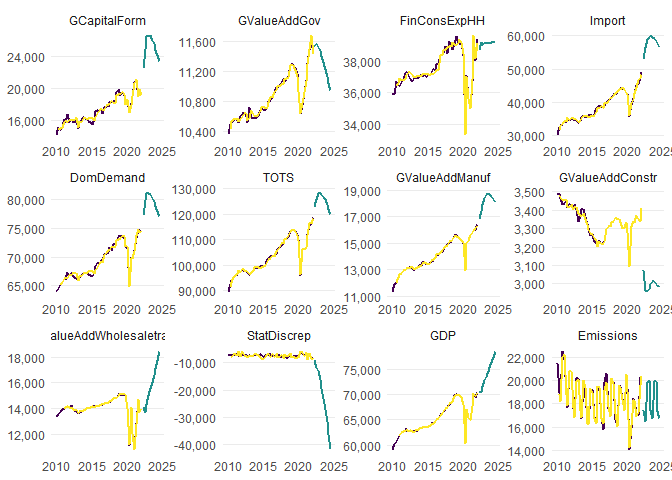
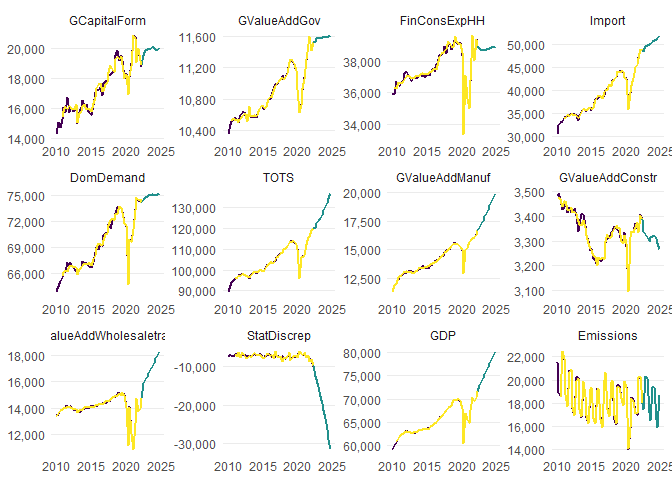
update data and readme

diff --git a/README.md b/README.md
@@ -30,14 +30,14 @@ First we load the package:
 
 ``` r
 library(aggregate.model)
-#> Loading required package: gets
-#> Loading required package: zoo
+#> Lade nötiges Paket: gets
+#> Lade nötiges Paket: zoo
 #> 
-#> Attaching package: 'zoo'
-#> The following objects are masked from 'package:base':
+#> Attache Paket: 'zoo'
+#> Die folgenden Objekte sind maskiert von 'package:base':
 #> 
 #>     as.Date, as.Date.numeric
-#> Loading required package: parallel
+#> Lade nötiges Paket: parallel
 ```
 
 ### Specify the model
@@ -940,13 +940,21 @@ model_result <- run_model(
   specification = spec,
   filter_list = filter_list,
   save_to_disk = "data/use/InputData.xlsx",
-  download = TRUE
+  download = TRUE,
+  trend = TRUE,
+  max.lag = 4,
+  saturation.tpval = 0.1/NROW(clean_data)
 )
-#> Table namq_10_gdp cached at C:\Users\morit\AppData\Local\Temp\RtmpagqCB2/eurostat/namq_10_gdp_date_code_FF.rds
-#> Table namq_10_a10 cached at C:\Users\morit\AppData\Local\Temp\RtmpagqCB2/eurostat/namq_10_a10_date_code_FF.rds
-#> Table env_ac_aigg_q cached at C:\Users\morit\AppData\Local\Temp\RtmpagqCB2/eurostat/env_ac_aigg_q_date_code_FF.rds
-#> Table ei_lmlc_q cached at C:\Users\morit\AppData\Local\Temp\RtmpagqCB2/eurostat/ei_lmlc_q_date_code_FF.rds
-#> Table sts_cobp_q cached at C:\Users\morit\AppData\Local\Temp\RtmpagqCB2/eurostat/sts_cobp_q_date_code_FF.rds
+#> Reading cache file C:\Users\jonas\AppData\Local\Temp\RtmpKm3Iqj/eurostat/namq_10_gdp_date_code_FF.rds
+#> Table  namq_10_gdp  read from cache file:  C:\Users\jonas\AppData\Local\Temp\RtmpKm3Iqj/eurostat/namq_10_gdp_date_code_FF.rds
+#> Reading cache file C:\Users\jonas\AppData\Local\Temp\RtmpKm3Iqj/eurostat/namq_10_a10_date_code_FF.rds
+#> Table  namq_10_a10  read from cache file:  C:\Users\jonas\AppData\Local\Temp\RtmpKm3Iqj/eurostat/namq_10_a10_date_code_FF.rds
+#> Reading cache file C:\Users\jonas\AppData\Local\Temp\RtmpKm3Iqj/eurostat/env_ac_aigg_q_date_code_FF.rds
+#> Table  env_ac_aigg_q  read from cache file:  C:\Users\jonas\AppData\Local\Temp\RtmpKm3Iqj/eurostat/env_ac_aigg_q_date_code_FF.rds
+#> Reading cache file C:\Users\jonas\AppData\Local\Temp\RtmpKm3Iqj/eurostat/ei_lmlc_q_date_code_FF.rds
+#> Table  ei_lmlc_q  read from cache file:  C:\Users\jonas\AppData\Local\Temp\RtmpKm3Iqj/eurostat/ei_lmlc_q_date_code_FF.rds
+#> Reading cache file C:\Users\jonas\AppData\Local\Temp\RtmpKm3Iqj/eurostat/sts_cobp_q_date_code_FF.rds
+#> Table  sts_cobp_q  read from cache file:  C:\Users\jonas\AppData\Local\Temp\RtmpKm3Iqj/eurostat/sts_cobp_q_date_code_FF.rds
 #> Warning in load_or_download_variables(specification =
 #> module_order_eurostatvars, : Unbalanced panel, will lose more than 20\% of data
 #> when making balanced
@@ -977,7 +985,10 @@ model_result <- run_model(
   specification = spec,
   filter_list = filter_list,
   download = FALSE,
-  inputdata_directory = "data/use"
+  inputdata_directory = "data/use",
+  trend = TRUE,
+  max.lag = 4,
+  saturation.tpval = 0.1/NROW(clean_data)
 )
 ```
 
@@ -996,7 +1007,7 @@ Once we are done, we can plot the forecast:
 
 ``` r
 plot(model_forecast, order.as.run = TRUE)
-#> Warning: Removed 1 row(s) containing missing values (geom_path).
+#> Warning: Removed 3 row(s) containing missing values (geom_path).
 ```
 
 <img src="man/figures/README-unnamed-chunk-10-1.png" width="100%" />
